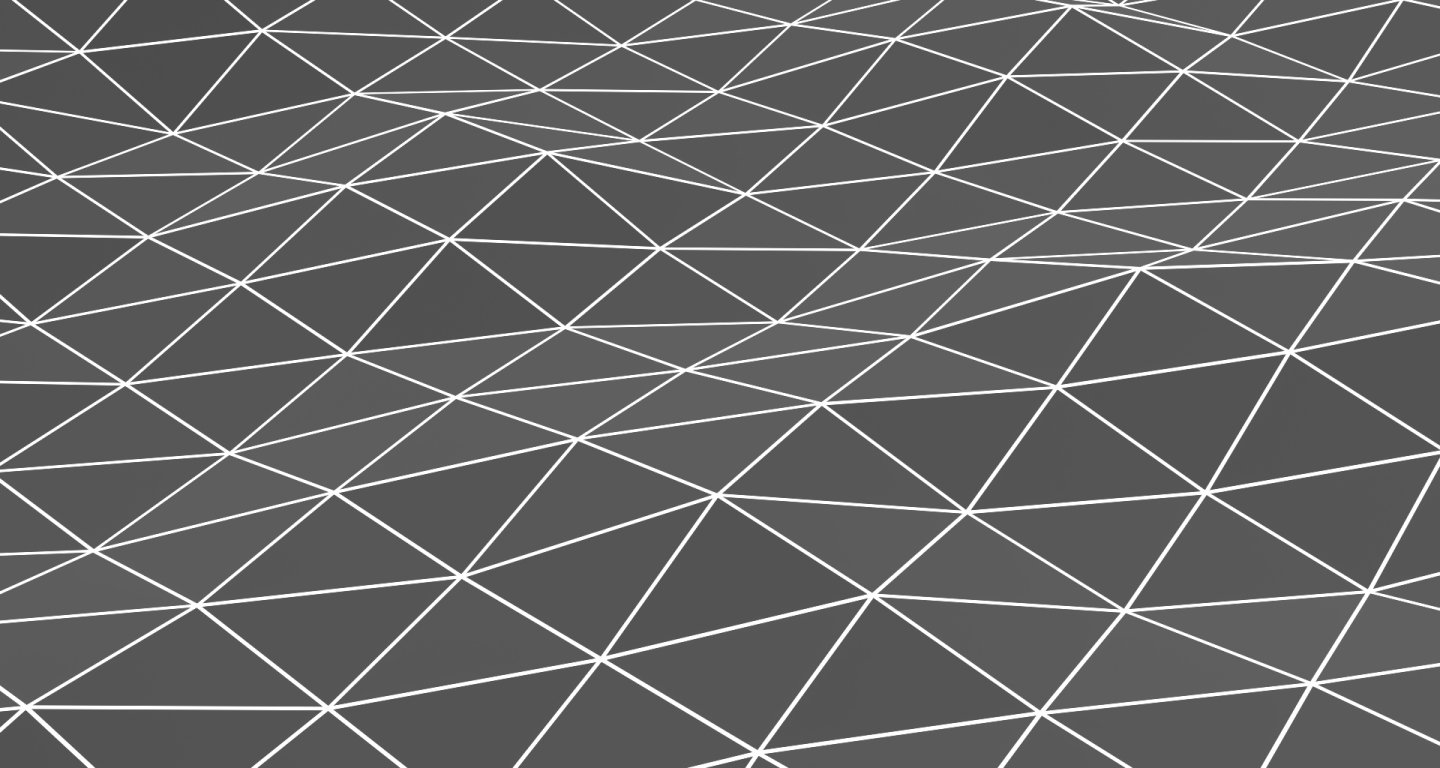
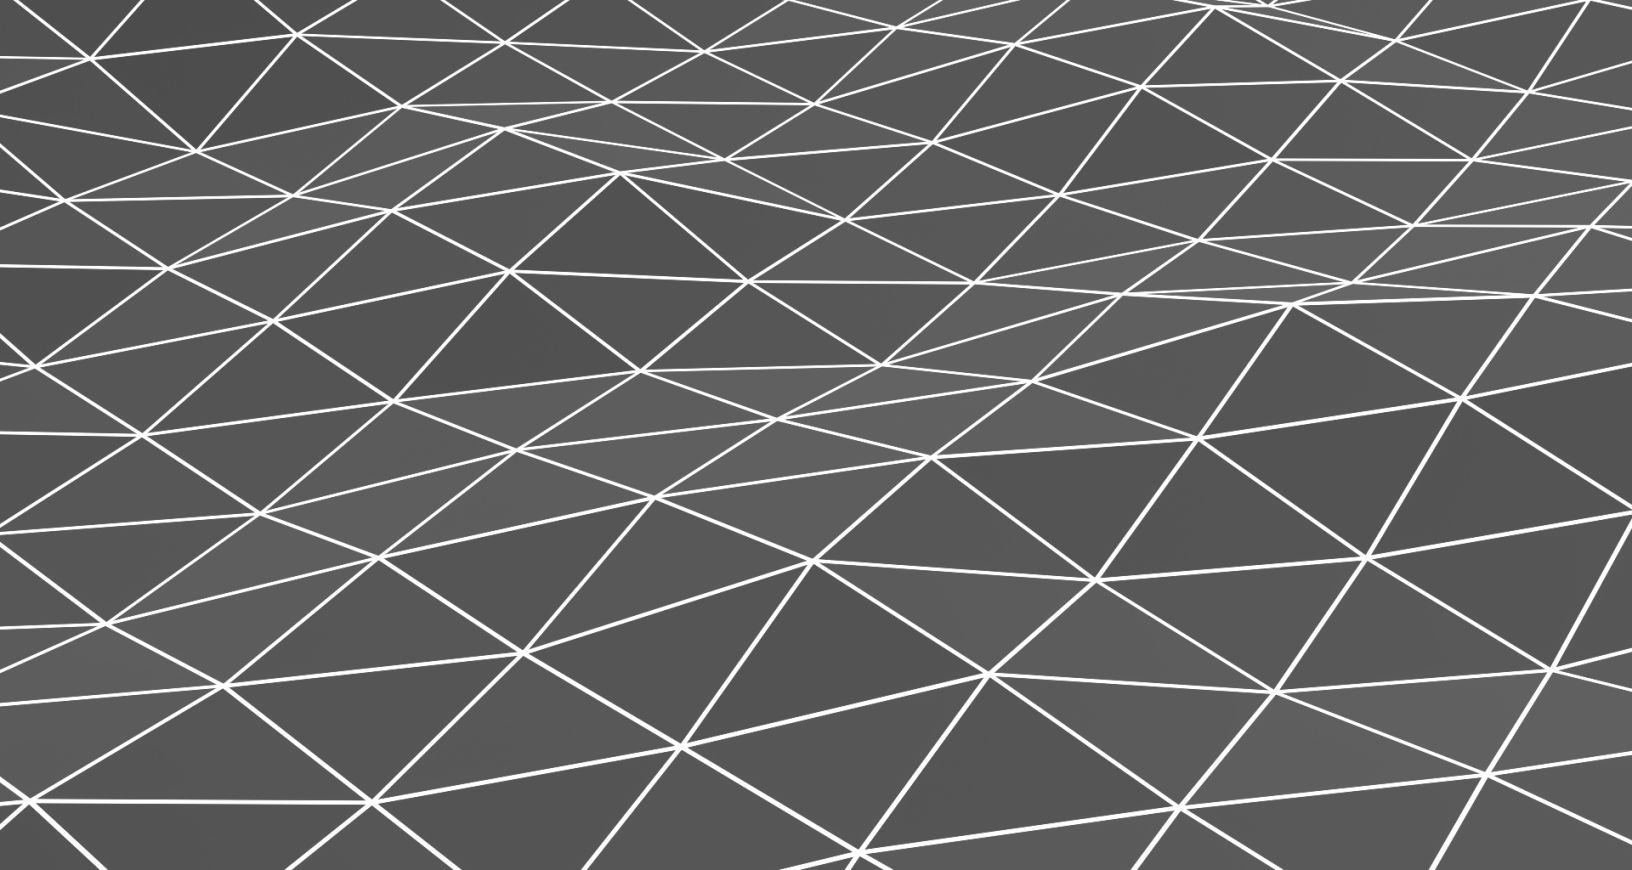
Fixed article background scale.

diff --git a/main.sass b/main.sass
@@ -57,12 +57,14 @@ article:nth-of-type(even)
     //background-image: url("img/grid.jpg")
     background: linear-gradient( rgba($even, $article-alpha), rgba($even, $article-alpha)), url("img/article.jpg")
     background-attachment: fixed
+    background-size: cover
 
 
 article:nth-of-type(odd)
     +article_background($odd, $anchor)
     background: linear-gradient( rgba($odd, $article-alpha), rgba($odd, $article-alpha)), url("img/article.jpg")
     background-attachment: fixed
+    background-size: cover
 
 #paginate:nth-child(even)
     background: $even
